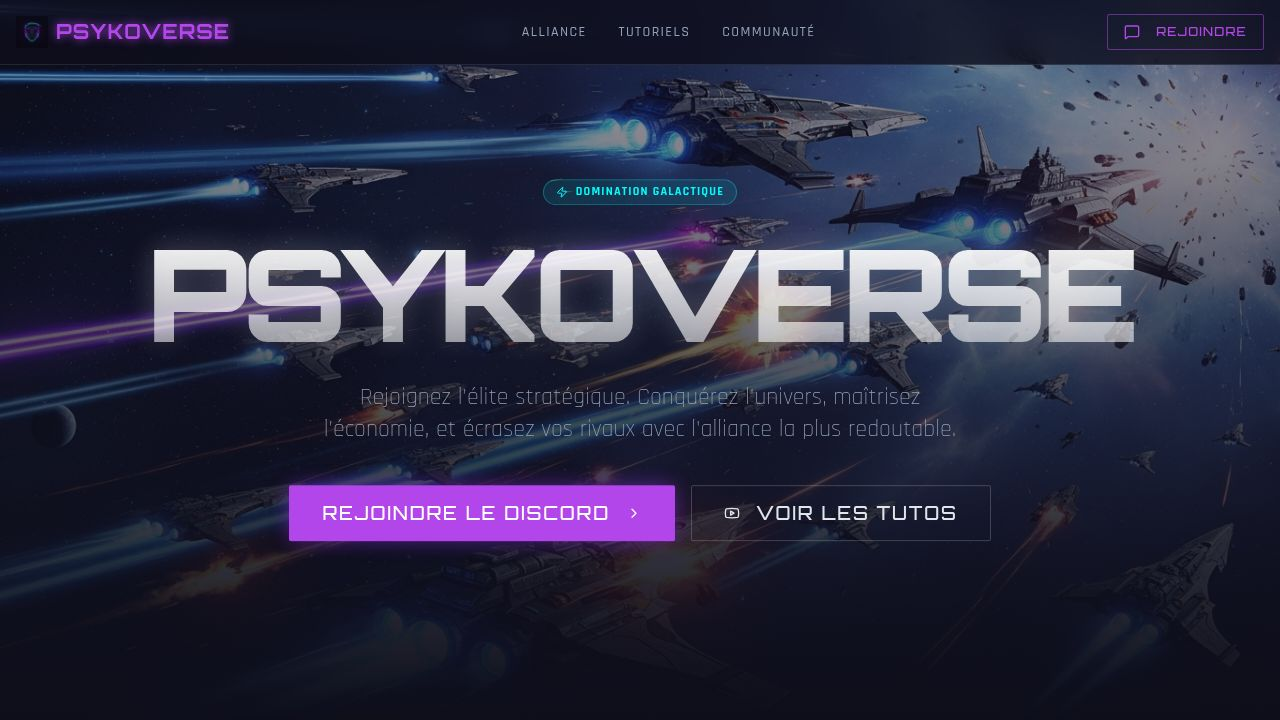
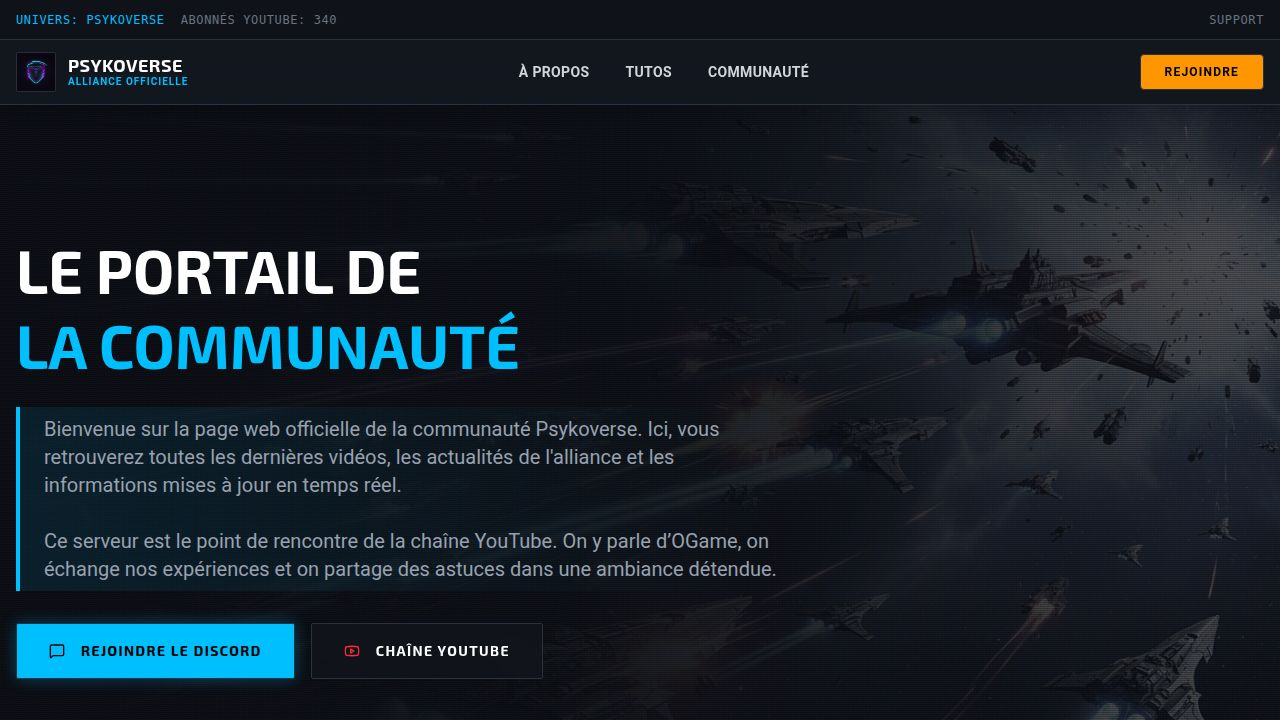
Update community portal with server details and new season teaser
Update client/src/pages/home.tsx to replace "LE POINT DE RENCONTRE" with "LE PORTAIL", modify the description to mention the Psykoverse community, add sections for active alliance servers (Hercules, Scorpius), and introduce a teaser for the new season server launching on December 19th with detailed stats. Also, remove the "Forum" link and update the YouTube subscriber count to 340 in client/src/pages/home.tsx. Modify client/src/pages/support.tsx to change the support-ticket channel name from "#support-ticket" to "❓┆𝐃𝐞𝐦𝐚𝐧𝐝𝐞𝐬".

Replit-Commit-Author: Agent
Replit-Commit-Session-Id: fbb635ff-35aa-4961-b565-d865ef3c1b3d
Replit-Commit-Checkpoint-Type: full_checkpoint
Replit-Commit-Event-Id: 04e24ba2-32c2-41cb-af52-7d124c595f29
Replit-Commit-Screenshot-Url: https://storage.googleapis.com/screenshot-production-us-central1/d4f81865-4d0e-47a2-a652-d4a2a96cce49/fbb635ff-35aa-4961-b565-d865ef3c1b3d/rbUiDTM
Replit-Helium-Checkpoint-Created: true

diff --git a/client/src/pages/home.tsx b/client/src/pages/home.tsx
@@ -34,7 +34,6 @@ export default function Home() {
           <span>Abonnés YouTube: 340</span>
         </div>
         <div className="flex items-center gap-4">
-          <span className="hover:text-white cursor-pointer transition-colors">Forum</span>
           <Link href="/support">
             <a className="hover:text-white cursor-pointer transition-colors">Support</a>
           </Link>
@@ -89,12 +88,13 @@ export default function Home() {
               transition={{ duration: 0.6 }}
             >
               <h1 className="font-display text-4xl md:text-6xl font-bold mb-6 text-white leading-tight">
-                LE POINT DE RENCONTRE <br/>
-                <span className="text-primary">DE LA COMMUNAUTÉ</span>
+                LE PORTAIL DE <br/>
+                <span className="text-primary">LA COMMUNAUTÉ</span>
               </h1>
               <p className="text-lg md:text-xl text-gray-400 mb-8 border-l-4 border-primary pl-6 py-2 bg-gradient-to-r from-primary/10 to-transparent">
-                Ce serveur est le point de rencontre de la communauté de ma chaîne YouTube. 
-                On y parle d’OGame, on échange nos expériences, on partage des astuces et on prend plaisir à discuter du jeu dans une ambiance détendue.
+                Bienvenue sur la page web officielle de la communauté Psykoverse. Ici, vous retrouverez toutes les dernières vidéos, les actualités de l'alliance et les informations mises à jour en temps réel.
+                <br/><br/>
+                Ce serveur est le point de rencontre de la chaîne YouTube. On y parle d’OGame, on échange nos expériences et on partage des astuces dans une ambiance détendue.
               </p>
               
               <div className="flex flex-col sm:flex-row gap-4">
@@ -115,6 +115,74 @@ export default function Home() {
           </div>
         </div>
       </header>
+
+      {/* Alliance Servers Info */}
+      <section className="py-16 bg-[#0F1219] border-b border-[#2A3241]">
+        <div className="container mx-auto px-4 text-center">
+          <h2 className="font-display text-2xl font-bold text-white mb-8 flex items-center justify-center gap-3">
+            <span className="w-8 h-[2px] bg-primary"></span>
+            ALLIANCE ACTIVE SUR
+            <span className="w-8 h-[2px] bg-primary"></span>
+          </h2>
+          <div className="flex flex-wrap justify-center gap-6">
+            <div className="px-8 py-4 bg-[#13171F] border border-[#2A3241] rounded hover:border-primary/50 transition-colors">
+              <span className="block text-xs text-gray-500 uppercase tracking-widest mb-1">Univers</span>
+              <span className="font-display text-2xl font-bold text-white">HERCULES</span>
+            </div>
+            <div className="px-8 py-4 bg-[#13171F] border border-[#2A3241] rounded hover:border-primary/50 transition-colors">
+              <span className="block text-xs text-gray-500 uppercase tracking-widest mb-1">Univers</span>
+              <span className="font-display text-2xl font-bold text-white">SCORPIUS</span>
+            </div>
+          </div>
+        </div>
+      </section>
+
+      {/* New Server Teaser */}
+      <section className="py-20 relative overflow-hidden bg-gradient-to-b from-[#0B0E14] to-[#13171F] border-b border-[#2A3241]">
+        <div className="absolute inset-0 bg-[url('https://www.transparenttextures.com/patterns/carbon-fibre.png')] opacity-20" />
+        <div className="container relative z-10 mx-auto px-4">
+          <div className="text-center mb-12">
+            <div className="inline-block px-4 py-1 rounded-full bg-red-600/20 border border-red-500/50 text-red-500 text-xs font-bold uppercase tracking-widest mb-4 animate-pulse">
+              Arrivée Imminente • 19 Décembre
+            </div>
+            <h2 className="font-display text-4xl md:text-5xl font-bold text-white mb-4">
+              NOUVEAU SERVEUR DE SAISON
+            </h2>
+            <p className="text-xl text-gray-400 max-w-2xl mx-auto">
+              L'alliance Psykoverse débarque en force. Préparez-vous pour une domination totale sur un univers ultra-rapide.
+            </p>
+          </div>
+
+          <div className="grid grid-cols-2 md:grid-cols-4 lg:grid-cols-5 gap-4 max-w-5xl mx-auto">
+            {[
+              { label: "Économie", value: "x8" },
+              { label: "Flotte Hostile", value: "x6" },
+              { label: "Recherche", value: "x16" },
+              { label: "CDR", value: "80%" },
+              { label: "Défense CDR", value: "50%" },
+              { label: "Cases Bonus", value: "+25" },
+              { label: "Galaxies", value: "6" },
+              { label: "Conso Deut", value: "0.5" },
+              { label: "Catégorie", value: "AGRESSIF" },
+              { label: "AG/DG", value: "OUI" }
+            ].map((stat, i) => (
+              <div key={i} className="bg-[#0B0E14]/80 border border-[#2A3241] p-4 text-center rounded hover:border-primary/50 transition-colors">
+                <div className="text-gray-500 text-xs uppercase tracking-wider mb-1">{stat.label}</div>
+                <div className="font-display text-xl font-bold text-white">{stat.value}</div>
+              </div>
+            ))}
+          </div>
+          
+          <div className="mt-12 text-center">
+             <p className="text-sm text-gray-500 mb-6 font-mono">AM à l'activation: 10.000 • Deut dans CDR: OUI • Fret Sonde: NON</p>
+             <Button size="lg" className="bg-red-600 hover:bg-red-700 text-white font-display font-bold uppercase tracking-widest px-8 shadow-[0_0_20px_rgba(220,38,38,0.4)]" asChild>
+              <a href="https://discord.gg/3PWk4HmfNn" target="_blank" rel="noopener noreferrer">
+                Rejoindre le Projet
+              </a>
+            </Button>
+          </div>
+        </div>
+      </section>
 
       {/* Welcome Section - "Tech Panel" Style */}
       <section id="about" className="py-20 bg-[#0F1219]">

diff --git a/client/src/pages/support.tsx b/client/src/pages/support.tsx
@@ -46,7 +46,7 @@ export default function Support() {
                 </h3>
                 <ol className="text-gray-400 space-y-4 text-sm list-decimal list-inside">
                   <li>Rejoignez notre serveur Discord officiel via le bouton ci-dessous.</li>
-                  <li>Rendez-vous dans le salon <span className="text-white font-mono bg-black/50 px-2 py-0.5 rounded">#support-ticket</span>.</li>
+                  <li>Rendez-vous dans le salon <span className="text-white font-mono bg-black/50 px-2 py-0.5 rounded">❓┆𝐃𝐞𝐦𝐚𝐧𝐝𝐞𝐬</span>.</li>
                   <li>Cliquez sur l'icône 📩 pour ouvrir un ticket privé avec le staff.</li>
                   <li>Décrivez votre problème ou votre demande en détail.</li>
                 </ol>
